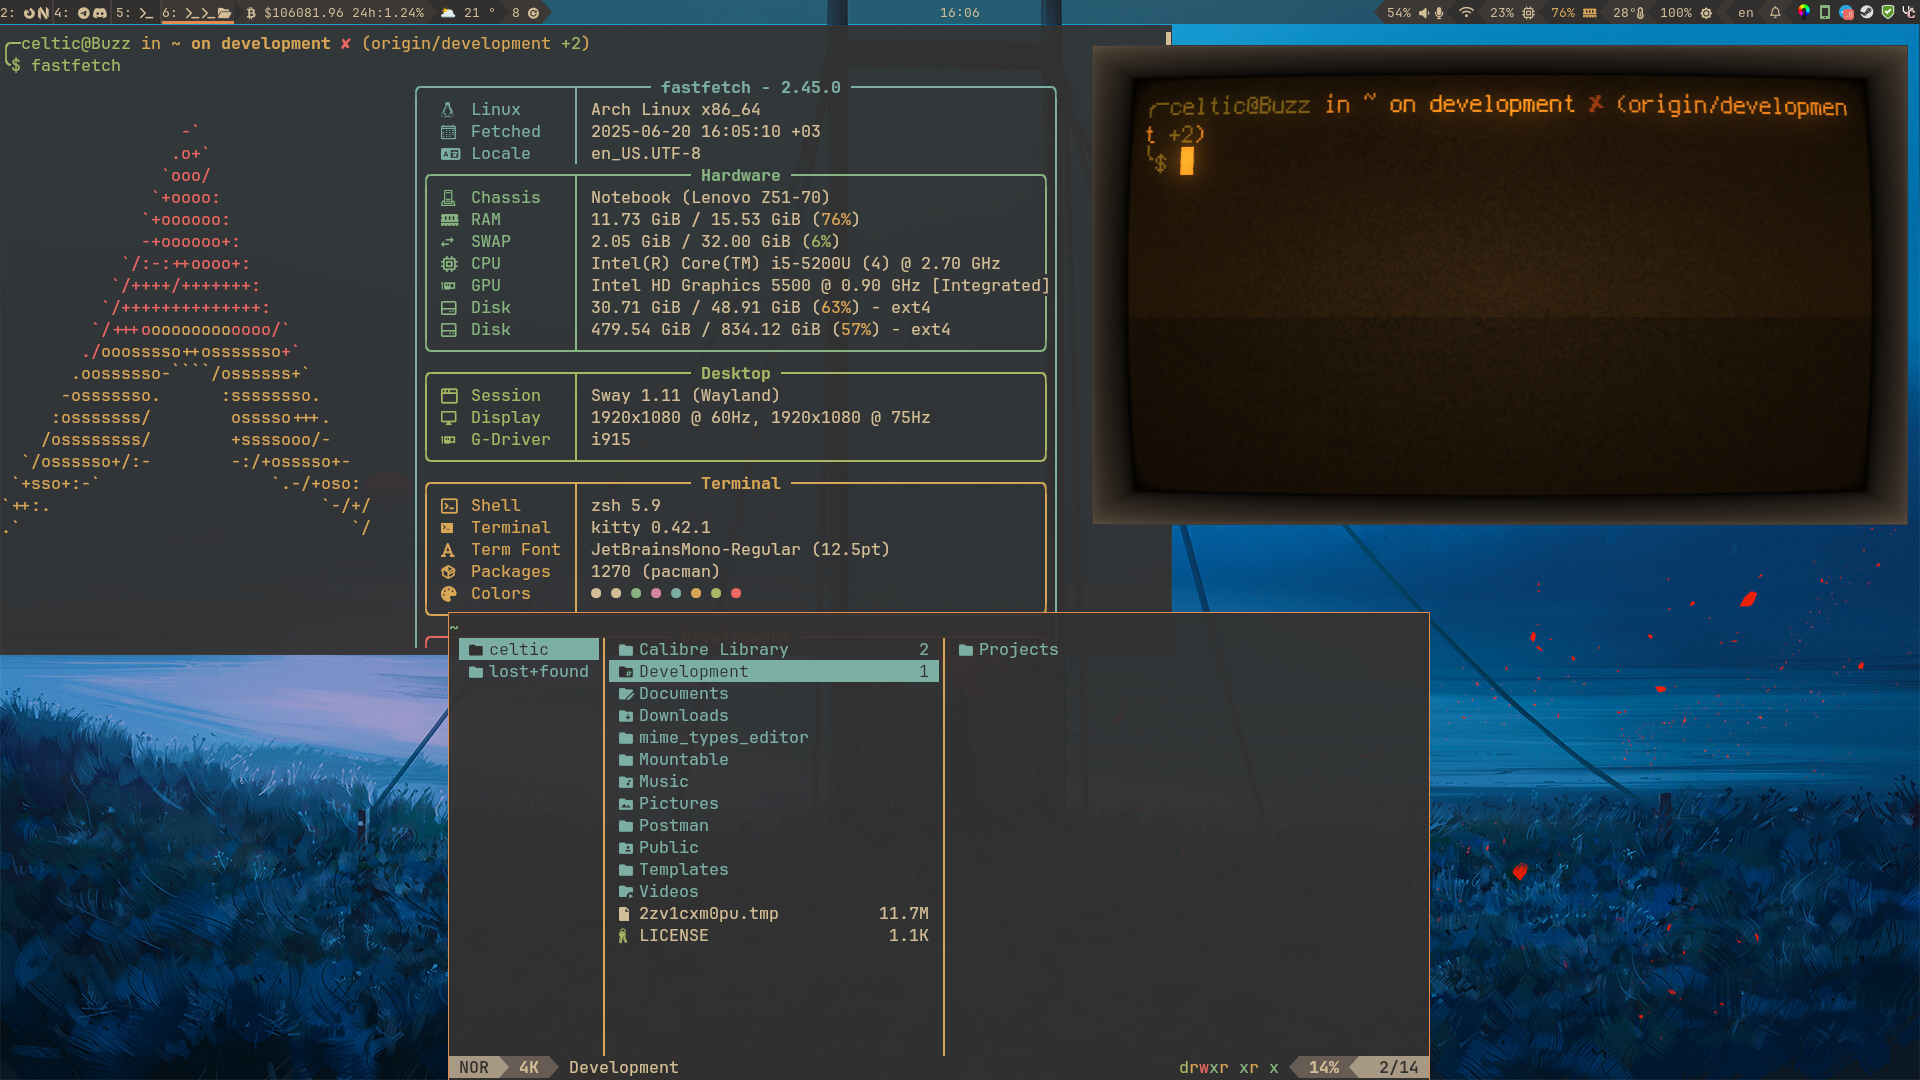
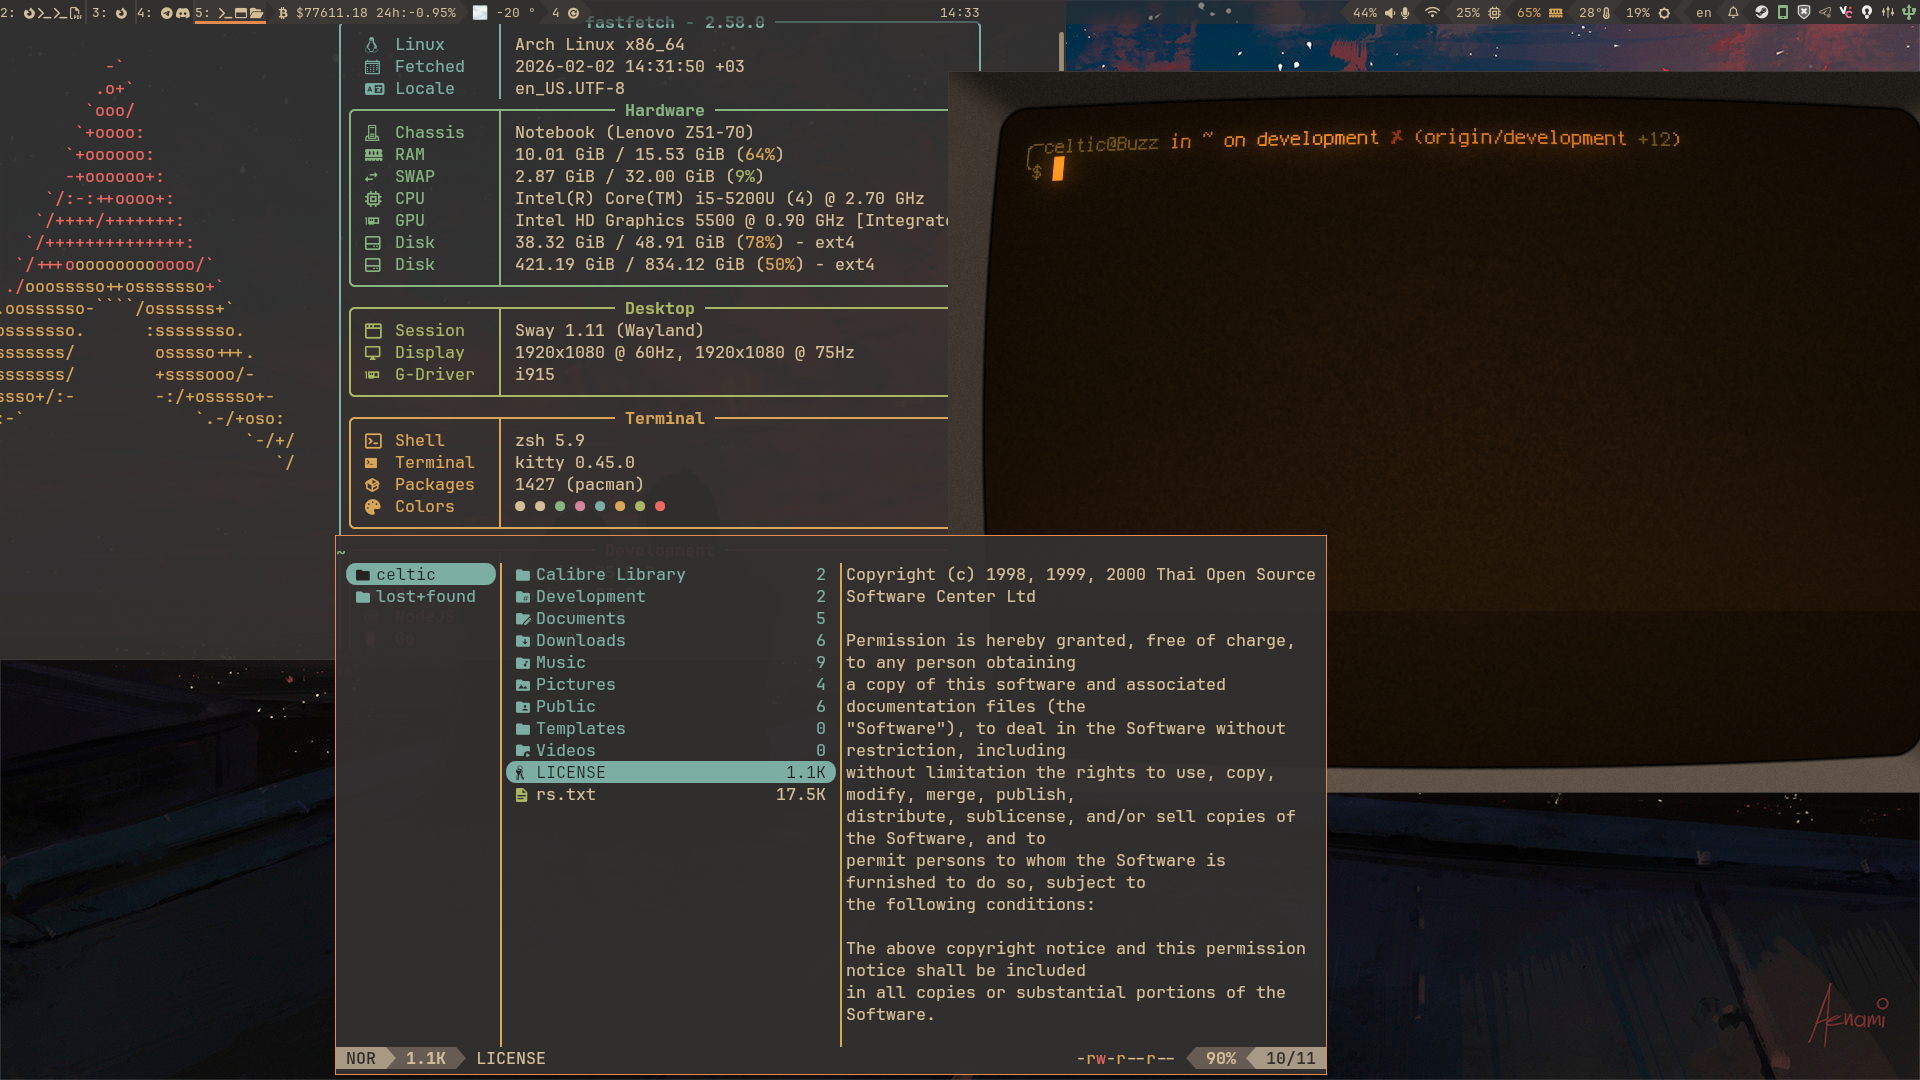
docs(readme): readme update

diff --git a/.github/README.md b/.github/README.md
@@ -105,12 +105,13 @@ All the info about my setup.
 | **Fuzzy file finder**   | [fzf](https://github.com/junegunn/fzf/)  [:gear:](../.fzfrc)                                                                                                                          |
 | **Fuzzy word finder**   | [ripgrep](https://github.com/BurntSushi/ripgrep/) [:gear:](../.ripgreprc)                                                                                                             |
 | **Cheat sheet tool**    | [navi](https://github.com/denisidoro/navi)                                                                                                                                            |
-| **Git TUI**             | [lazygit](https://github.com/jesseduffield/lazygit/)                                                                                                                                  |
+| **Git TUI**             | [lazygit](https://github.com/jesseduffield/lazygit/) [:gear:](../.config/lazygit/)                                                                                                    |
 | **Docker TUI**          | [lazydocker](https://github.com/jesseduffield/lazydocker/)                                                                                                                            |
 | **Trash CLI**           | [glib2](https://archlinux.org/packages/core/x86_64/glib2) (gio trash)                                                                                                                 |
 | **System monitor**      | [btop](https://github.com/aristocratos/btop/) [:gear:](../.config/btop/)                                                                                                              |
 | **Pulse audio control** | [pulsemixer](https://github.com/GeorgeFilipkin/pulsemixer/) [:gear:](../.config/pulsemixer.cfg)                                                                                       |
 | **Torrent client**      | [stig](https://github.com/rndusr/stig)                                                                                                                                                |
+| **Task manager**        | [tatuin](https://github.com/panter-dsd/tatuin) [:gear:](../.config/tatuin/)                                                                                                           |
 
 ### :window: GUI software
 
